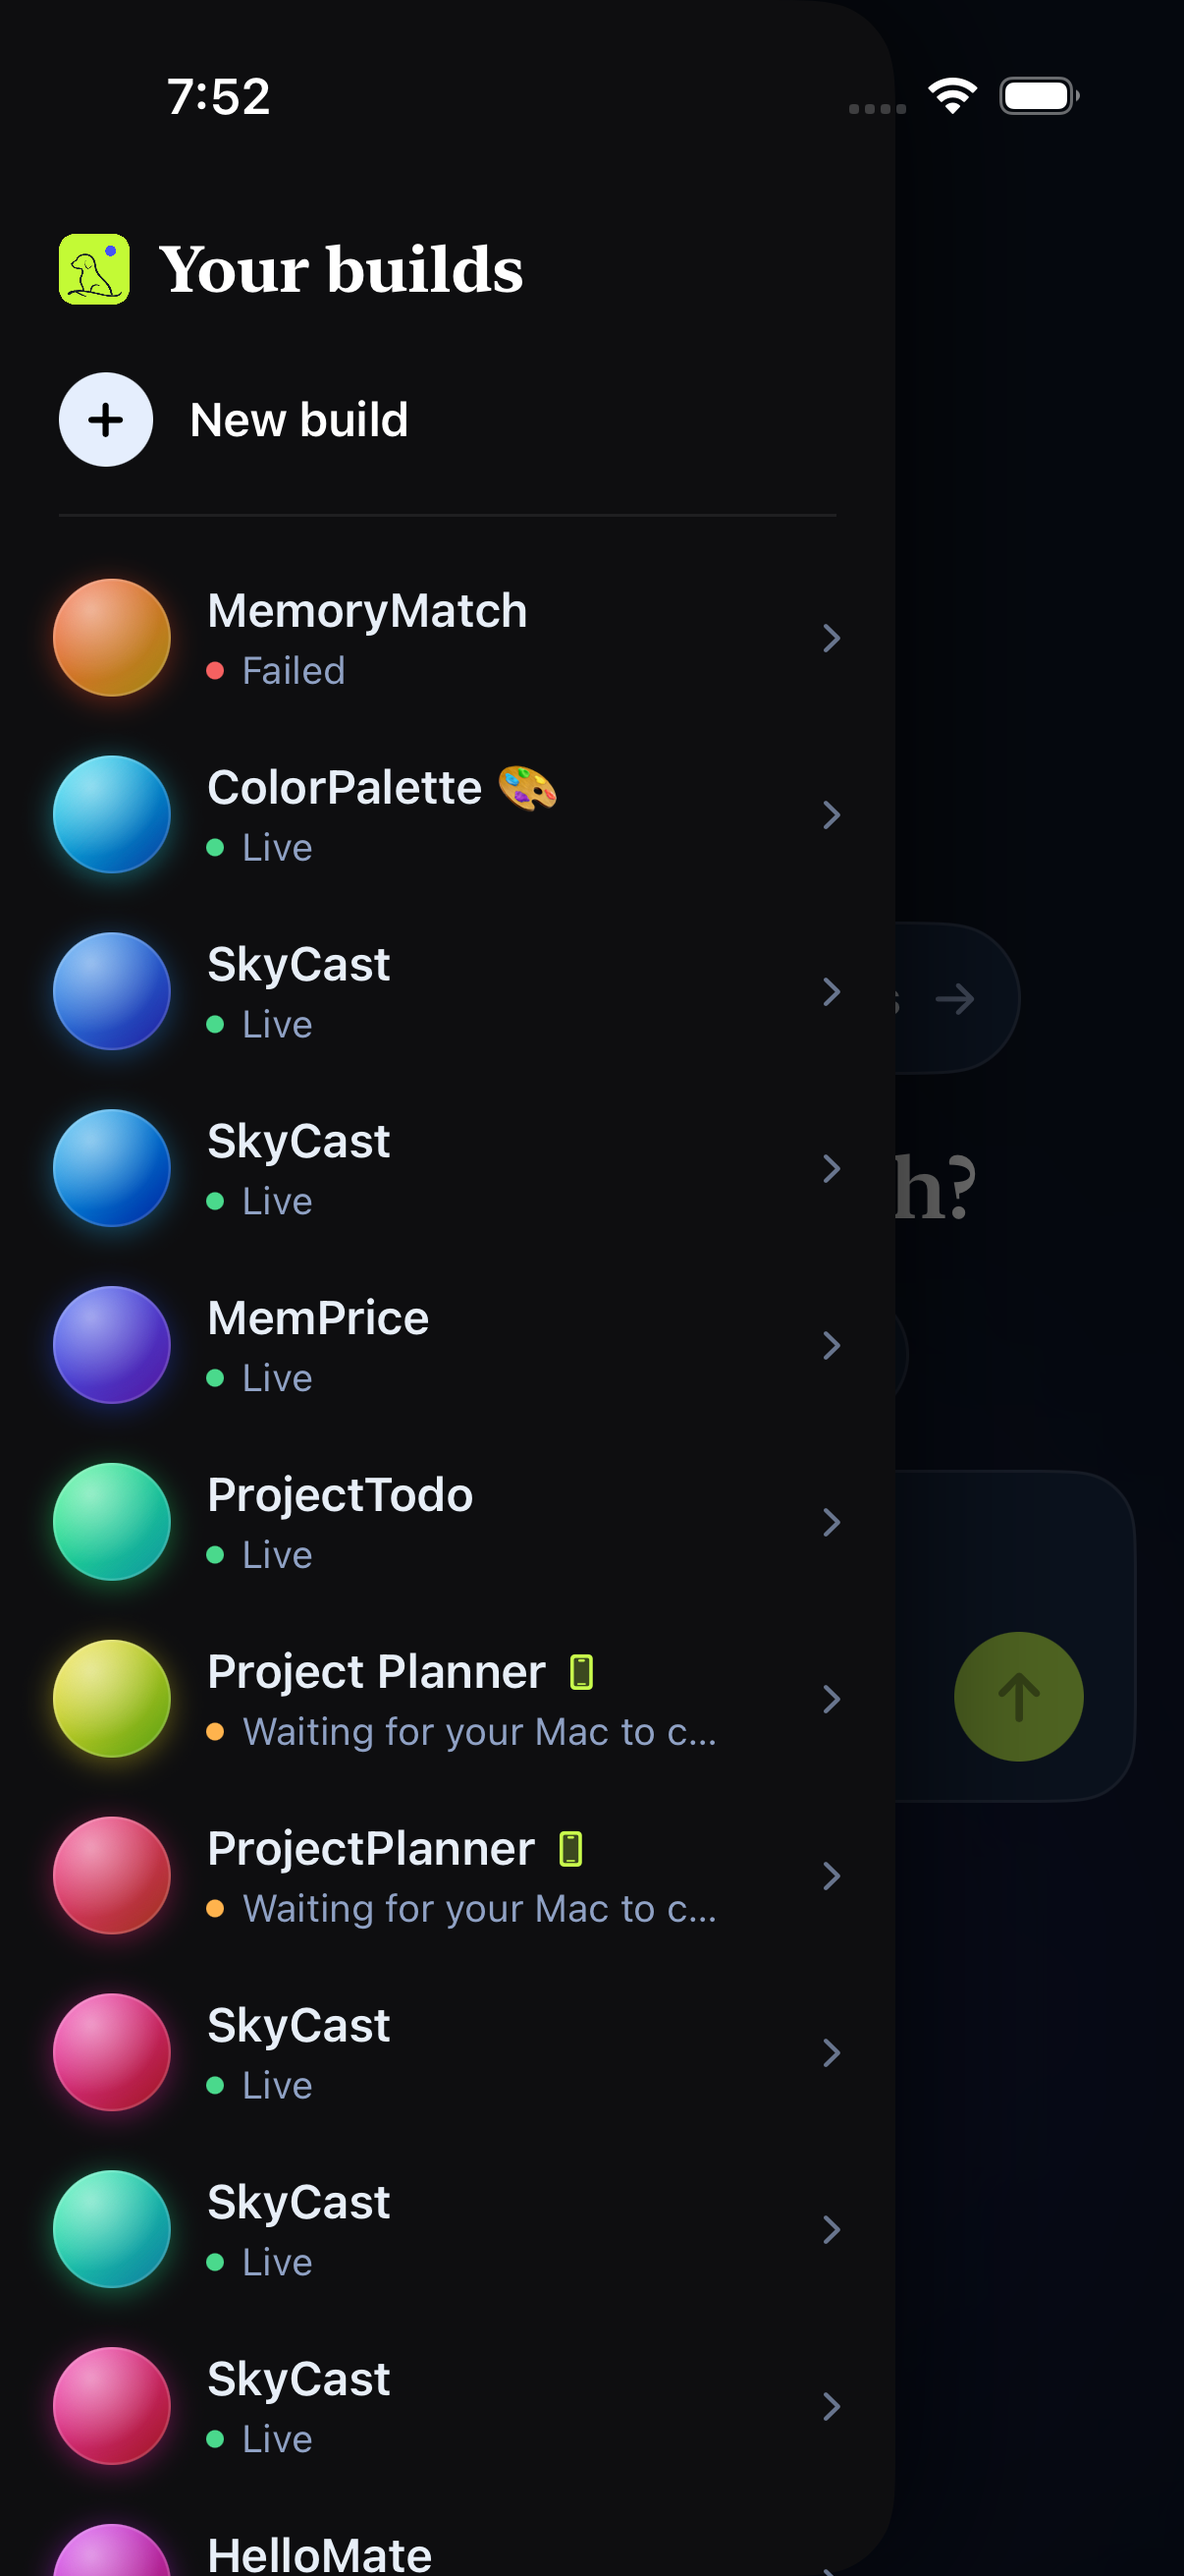
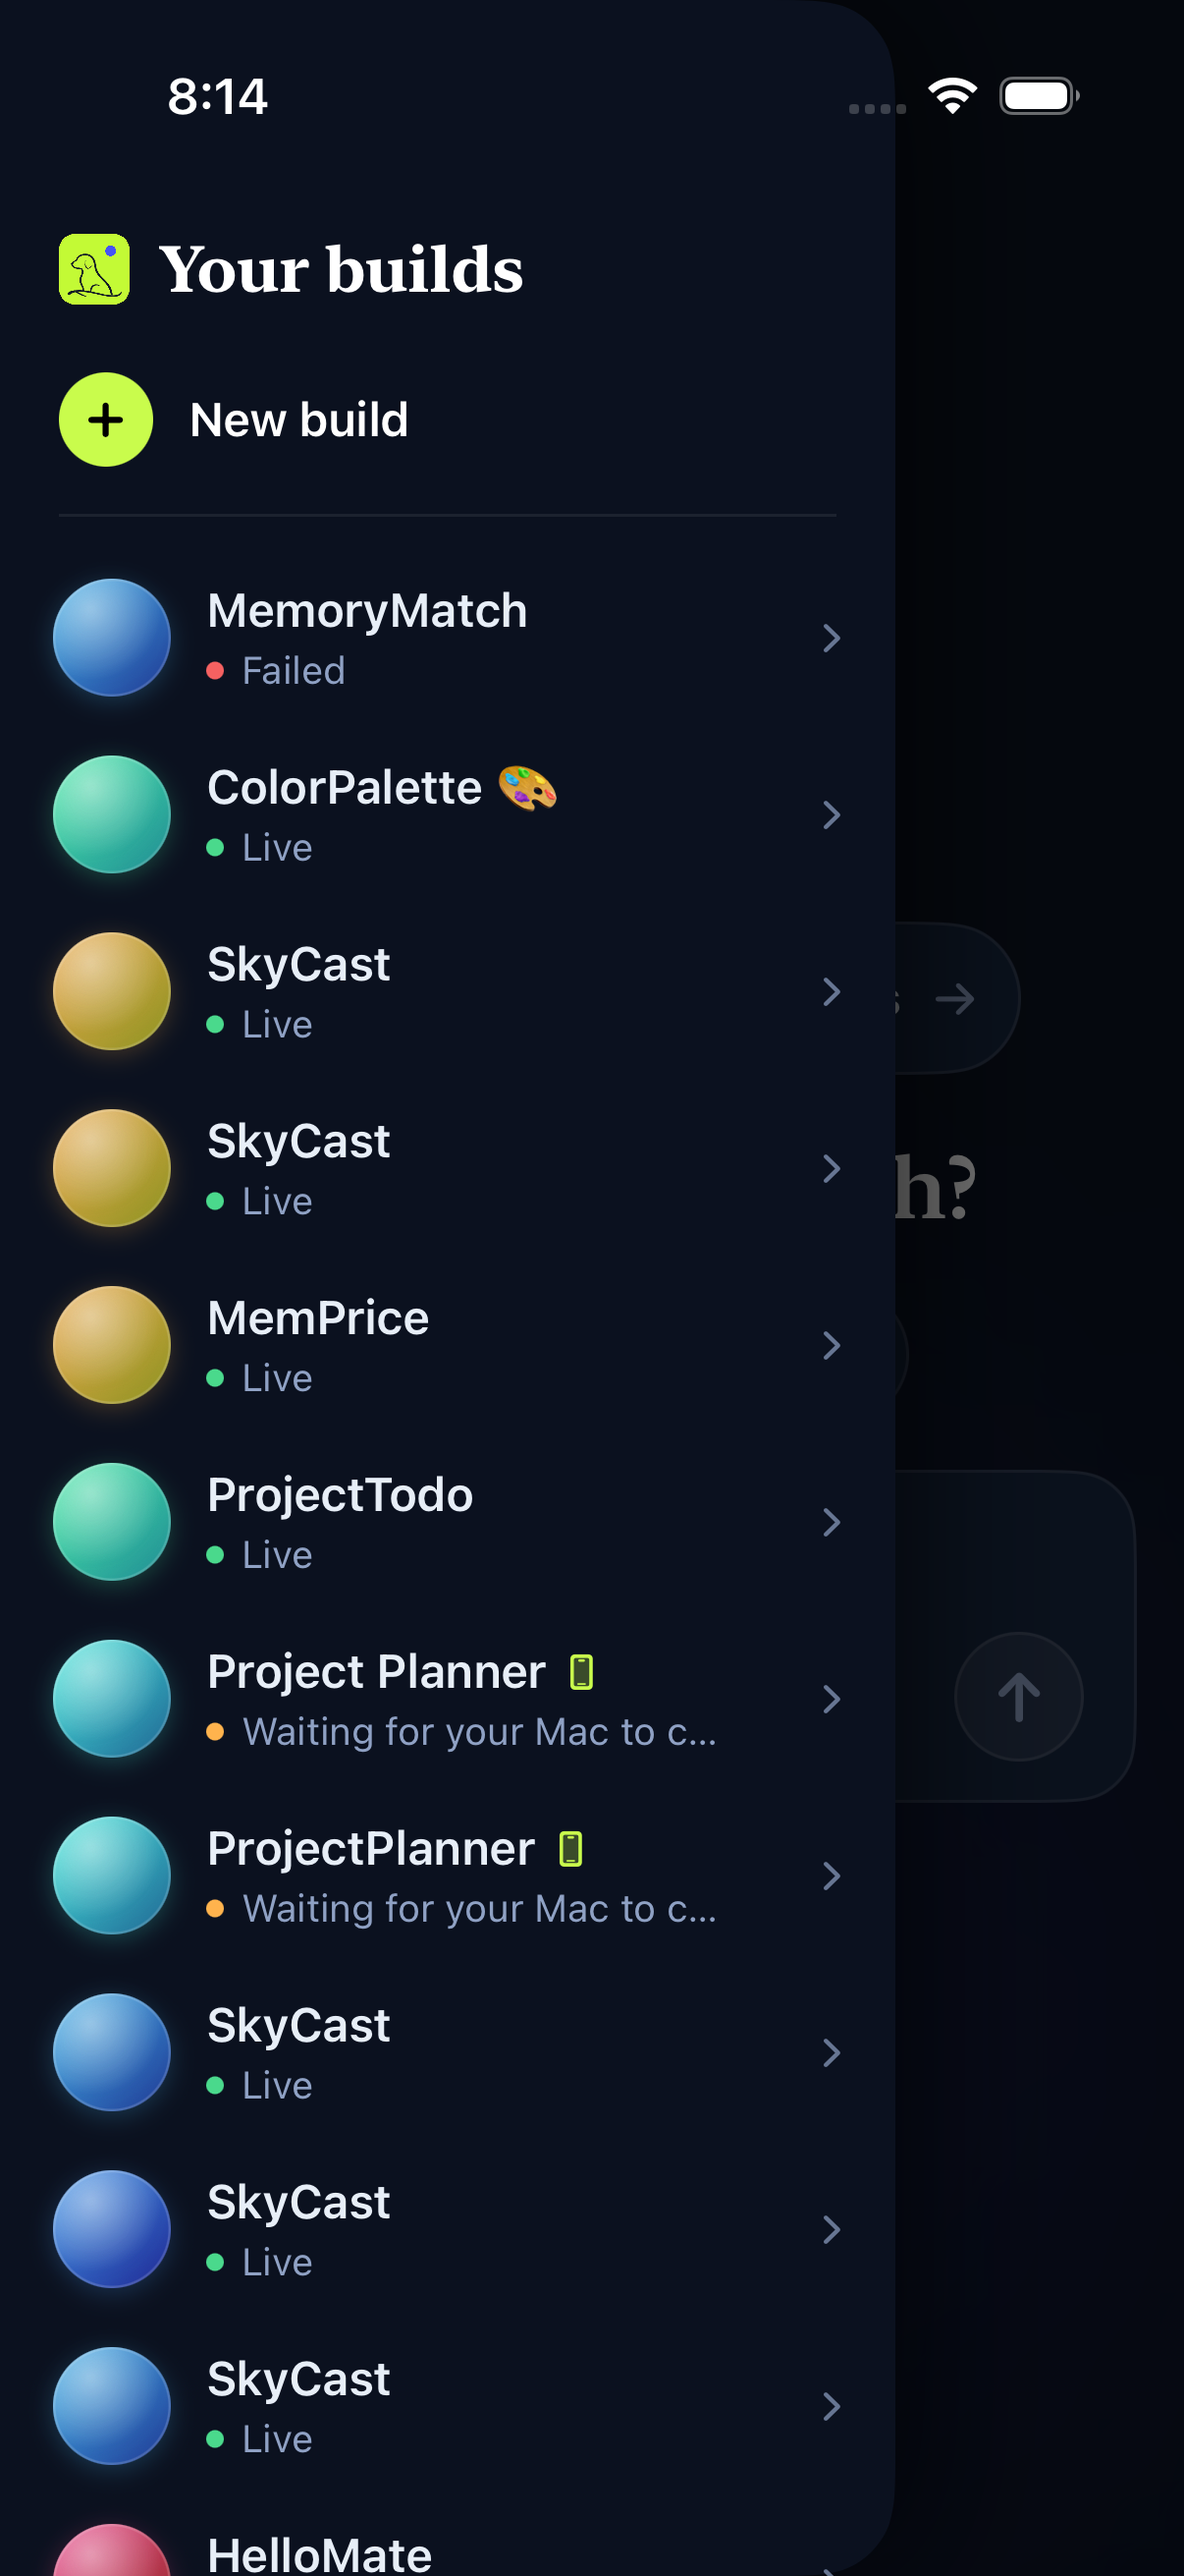
Round-2 design fixes: dormant send button (glass, not neon lime), lime New-build disc (no light-mode relic), drawer on hero navy, curated orb palette; keep lime hamburger for brand pop

diff --git a/ios/Sources/Theme.swift b/ios/Sources/Theme.swift
@@ -165,23 +165,38 @@ struct OrbIcon: View {
     let seed: String
     var size: CGFloat = 40
 
+    // Curated palette of harmonious jewel tones anchored in the cobalt/navy/cyan family
+    private static let curatedHues: [Double] = [
+        224.0 / 360.0, // Cobalt blue (#3548EB)
+        200.0 / 360.0, // Cyan / Sky blue (#0EA5E9)
+        245.0 / 360.0, // Royal Indigo (#4F46E5)
+        265.0 / 360.0, // Deep Iris (#7C3AED)
+        175.0 / 360.0, // Cool Teal (#0D9488)
+        155.0 / 360.0, // Emerald Mint (#059669)
+        210.0 / 360.0, // Steel Slate (#0284C7)
+        280.0 / 360.0, // Royal Purple (#9333EA)
+        35.0 / 360.0,  // Warm Amber (#D97706)
+        335.0 / 360.0, // Crimson Rose (#E11D48)
+    ]
+
     private var baseHue: Double {
         var hash = 0
         for scalar in seed.unicodeScalars {
             hash = (hash &* 31 &+ Int(scalar.value)) & 0xFFFF
         }
-        return Double(hash % 360) / 360.0
+        let index = abs(hash) % Self.curatedHues.count
+        return Self.curatedHues[index]
     }
 
     var body: some View {
         let h1 = baseHue
-        let h2 = (baseHue + 0.11).truncatingRemainder(dividingBy: 1.0)
+        let h2 = (baseHue + 0.08).truncatingRemainder(dividingBy: 1.0)
         Circle()
             .fill(
                 LinearGradient(
                     colors: [
-                        Color(hue: h1, saturation: 0.80, brightness: 0.98),
-                        Color(hue: h2, saturation: 0.90, brightness: 0.62),
+                        Color(hue: h1, saturation: 0.68, brightness: 0.92),
+                        Color(hue: h2, saturation: 0.78, brightness: 0.58),
                     ],
                     startPoint: .topLeading,
                     endPoint: .bottomTrailing
@@ -190,7 +205,7 @@ struct OrbIcon: View {
             .overlay(
                 Circle().fill(
                     RadialGradient(
-                        colors: [.white.opacity(0.50), .clear],
+                        colors: [.white.opacity(0.45), .clear],
                         center: UnitPoint(x: 0.32, y: 0.26),
                         startRadius: 1,
                         endRadius: size * 0.6
@@ -199,6 +214,6 @@ struct OrbIcon: View {
             )
             .overlay(Circle().strokeBorder(.white.opacity(0.16), lineWidth: 0.8))
             .frame(width: size, height: size)
-            .shadow(color: Color(hue: h1, saturation: 0.85, brightness: 0.85).opacity(0.40), radius: 5, y: 2)
+            .shadow(color: Color(hue: h1, saturation: 0.70, brightness: 0.75).opacity(0.28), radius: 4, y: 2)
     }
 }

diff --git a/ios/Sources/HomeView.swift b/ios/Sources/HomeView.swift
@@ -315,14 +315,18 @@ struct HomeView: View {
                 Button(action: submit) {
                     ZStack {
                         Circle()
-                            .fill(canSubmit ? Theme.lime : Theme.lime.opacity(0.85))
+                            .fill(canSubmit ? Theme.lime : Color.white.opacity(0.08))
                             .frame(width: 44, height: 44)
+                            .overlay(
+                                Circle()
+                                    .strokeBorder(canSubmit ? Color.clear : Color.white.opacity(0.12), lineWidth: 1)
+                            )
                         if creating {
-                            ProgressView().tint(.black)
+                            ProgressView().tint(canSubmit ? .black : .white)
                         } else {
                             Image(systemName: "arrow.up")
                                 .font(.system(size: 18, weight: .bold))
-                                .foregroundStyle(canSubmit ? .black : Color.black.opacity(0.35))
+                                .foregroundStyle(canSubmit ? .black : Theme.heroMuted)
                         }
                     }
                 }
@@ -657,7 +661,7 @@ struct ProjectsDrawer: View {
                         .font(.system(size: 14, weight: .bold))
                         .foregroundStyle(.black)
                         .frame(width: 32, height: 32)
-                        .background(Theme.surface, in: Circle())
+                        .background(Theme.lime, in: Circle())
                     Text("New build")
                         .font(.system(size: 16, weight: .semibold))
                         .foregroundStyle(.white)
@@ -714,7 +718,7 @@ struct ProjectsDrawer: View {
         }
         .frame(maxHeight: .infinity, alignment: .top)
         .background(
-            Color(red: 0.055, green: 0.055, blue: 0.062)
+            Theme.hero
                 .clipShape(.rect(bottomTrailingRadius: 28, topTrailingRadius: 28))
                 .ignoresSafeArea()
                 .shadow(color: .black.opacity(0.6), radius: 24, x: 8)
